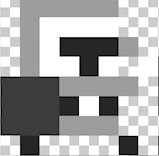
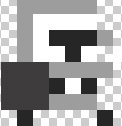
made the animations look better

diff --git a/CTF/src/DrawingSurface.java b/CTF/src/DrawingSurface.java
@@ -44,9 +44,13 @@ public class DrawingSurface extends PApplet {
 		frameRate(24);
 
 		images[0] = loadImage("knightStand.png");
+		images[0].resize(126, 126);
 		images[1] = loadImage("knightWalkRight.png");
+		images[1].resize(96, 126);
 		images[2] = loadImage("knightAttack1.png");
+		images[2].resize(128,126);
 		images[3] = loadImage("knightAttack2.png");
+		images[3].resize(192,126);
 
 		// If you don't want to load each image separately
 		// and you know how many frames you have, you
@@ -61,7 +65,7 @@ public class DrawingSurface extends PApplet {
 
 	public void draw() {
 		background(255);
-		image(images[currentFrame], 0, 0);
+		image(images[currentFrame], (float)player1.getX(), (float)player1.getY());
 	}
 
 	public void mousePressed() {
@@ -70,13 +74,10 @@ public class DrawingSurface extends PApplet {
 
 	public void keyPressed() {
 		if (key == 119 || key == 87) {
-			System.out.println("W");
 			player1.moveUp();
 		} else if (key == 115 || key == 83) {
-			System.out.println("S");
 			player1.moveDown();
 		} else if (key == 97 || key == 65) {
-			System.out.println("A");
 			player1.moveLeft();
 		} else if (key == 100 || key == 68) {
 			player1.moveRight();
@@ -85,7 +86,18 @@ public class DrawingSurface extends PApplet {
 			} else {
 				currentFrame = 1;
 			}
+		} else if (key == 32) {
+			if (currentFrame == 2) {
+				currentFrame = 3;
+				
+			} else {
+				currentFrame = 2;
+			}
 		}
+	}
+	
+	public void keyReleased() {
+		currentFrame = 0;
 	}
 	
 

diff --git a/CTF/src/Staff.java b/CTF/src/Staff.java
@@ -13,6 +13,7 @@ public class Staff extends Powerup {
 	
 	public boolean pickUp(Player p) {
 		super.pickUp(p);
+		return false; // just to compile
 		//graphics stuff
 	}
 	
